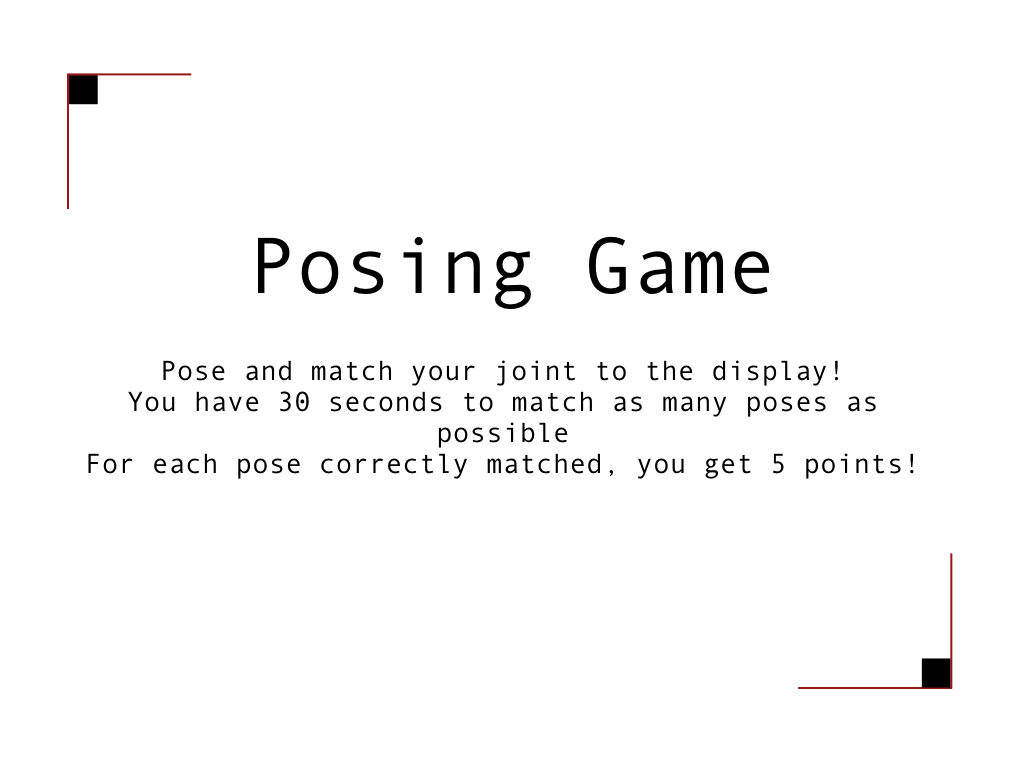
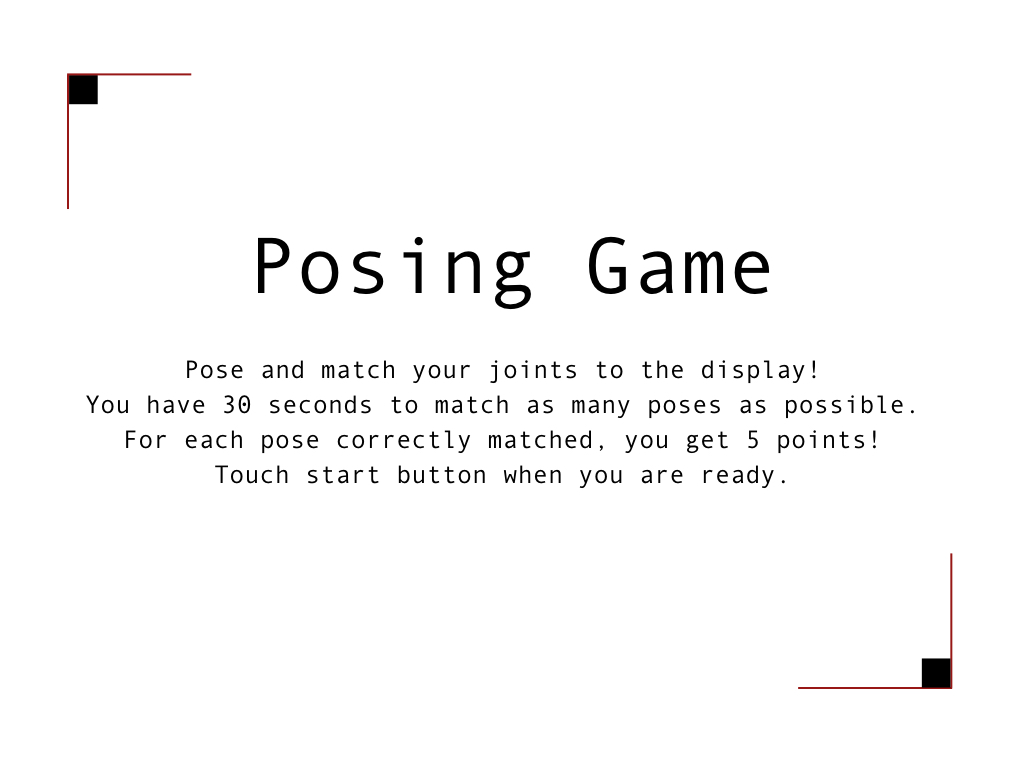
Timer and more pose images

Changed region(s): [[0.0938, 0.4688, 0.9062, 0.625], [0.125, 0.5625, 0.1562, 0.5938], [0.0938, 0.5938, 0.125, 0.625]]

diff --git a/src/PosingGame.java b/src/PosingGame.java
@@ -35,7 +35,17 @@ public class PosingGame extends PApplet {
 
 	private boolean gameStart = false;
 	
+	private static final int TIME = 120;
+	private int startTime;
+	private int currentTime = -2;
+	
 	private PImage instructionImg;
+	private PImage gameOverImg;
+	private PImage startButtonImg;
+	private PImage timeLabel;
+	
+	private int score = 0;
+	
 	public void createWindow(boolean useP2D, boolean isFullscreen, float windowsScale) {
 		if (useP2D) {
 			if(isFullscreen) {
@@ -62,7 +72,10 @@ public class PosingGame extends PApplet {
 
 	public void settings() {
 		createWindow(true, true, .5f);
-		instructionImg = loadImage("data/instructions.jpeg");
+		instructionImg = loadImage("data/instruction.png");
+		gameOverImg = loadImage("data/gameover.png");
+		startButtonImg = loadImage("data/startbutton.png");
+		timeLabel = loadImage("data/time.png");
 	}
 
 	public void setup(){	
@@ -80,6 +93,10 @@ public class PosingGame extends PApplet {
 		setScale(.5f);
 		noStroke();
 		background(255,255,255);
+		
+		drawTimeBar();
+		drawScore();
+		
 		//draw person
 		KinectBodyData bodyData = kinectReader.getNextData();
 		if(bodyData == null) return;
@@ -87,10 +104,13 @@ public class PosingGame extends PApplet {
 			pushMatrix();
 			scale(1,-1);		
 			// load instruction and start button
-			image(instructionImg, -2, -1.75f, 4, 3);
+			if (currentTime == -2) {
+				image(instructionImg, -2, -1.75f, 4, 3);
+			} else {
+				image(gameOverImg, -2, -1.75f, 4, 3);
+			}
 			//image(startButtonImg, -.2f, -.6f, .4f, .2f);
 			popMatrix();
-			PImage startButtonImg = loadImage("data/startbutton.png");
 			image(startButtonImg, -.2f, -.6f, .4f, .2f);
 		}
 		Body person = bodyData.getPerson(0);
@@ -146,9 +166,10 @@ public class PosingGame extends PApplet {
 			drawJoint(footRight);
 			drawJoint(footLeft);
 			
-			if (shoulderLeft != null && shoulderRight != null && hipLeft != null && hipRight != null) {
+			if (spine != null && shoulderLeft != null && shoulderRight != null && hipLeft != null && hipRight != null) {
 				beginShape();
 				vertex(shoulderLeft.x, shoulderLeft.y);
+				vertex(spine.x, spine.y);
 				vertex(shoulderRight.x, shoulderRight.y);
 				vertex(hipRight.x, hipRight.y);
 				vertex(hipLeft.x, hipLeft.y);
@@ -158,12 +179,19 @@ public class PosingGame extends PApplet {
 			if (handRight!=null && !gameStart) {
 				gameStart = checkTouchStartButton(handRight);
 				if (gameStart) {
+					startTime = millis();
+					score = 0;
 					poses.addAllPoses(this);
 				}
 			}
 			
 			if (gameStart) {
 				poses.drawPose(this);
+				currentTime = TIME - (millis() - startTime)/1000;
+				if (currentTime == 0) {
+					gameStart = false;
+				}
+				
 				currentPose = poses.getCurrentPose();
 				
 				leftShoulderAngle = calculateAngle(elbowLeft, shoulderLeft, hipLeft, currentPose.getLeftShoulderAngle());
@@ -178,12 +206,40 @@ public class PosingGame extends PApplet {
 				boolean isCorrectPose = checkCorrectPose(shoulderLeft, shoulderRight, elbowLeft, elbowRight, hipLeft, hipRight, kneeLeft, kneeRight);
 				if (isCorrectPose) {
 					poses.removePose();
+					score += 5;
 					if (poses.isEmpty()) {
 						gameStart = false;
+						currentTime = -1;
 					}
 				}
 			}
 		}
+	}
+	
+	private void drawTimeBar() {
+		fill(0,0,0);
+		float x = -1f;
+		float y = 1.2f;
+		float barWidth = 1f;
+		float barHeight = .1f;
+		final float BORDER = .01f;
+		image(timeLabel, x, y, 0.4f, 0.4f);
+		rect(x, y, barWidth, barHeight);
+		fill(244, 137, 66);
+		// draw the orange bar if the level is not 0
+		if (currentTime > 0) {
+			rect(x+BORDER, y, barWidth*currentTime/TIME-BORDER*2, barHeight-BORDER*2, 7);
+		}
+	}
+	
+	private void drawScore() {
+		fill(255,0,0);
+		pushMatrix();
+		scale(.006f);
+		scale(1,-1);
+		textSize(43);
+		text("score: "+score, 80, -200);
+		popMatrix();
 	}
 	
 	private boolean checkCorrectPose(PVector shoulderLeft, PVector shoulderRight, PVector elbowLeft, PVector elbowRight, 
@@ -319,7 +375,7 @@ public class PosingGame extends PApplet {
 	private void drawConnection (PVector v1, PVector v2) {
 		if (v1 != null && v2 != null) {
 			stroke(0, 0,0);
-			strokeWeight(.02f);
+			strokeWeight(.05f);
 			line(v1.x,v1.y, v2.x, v2.y);
 		}
 	}
